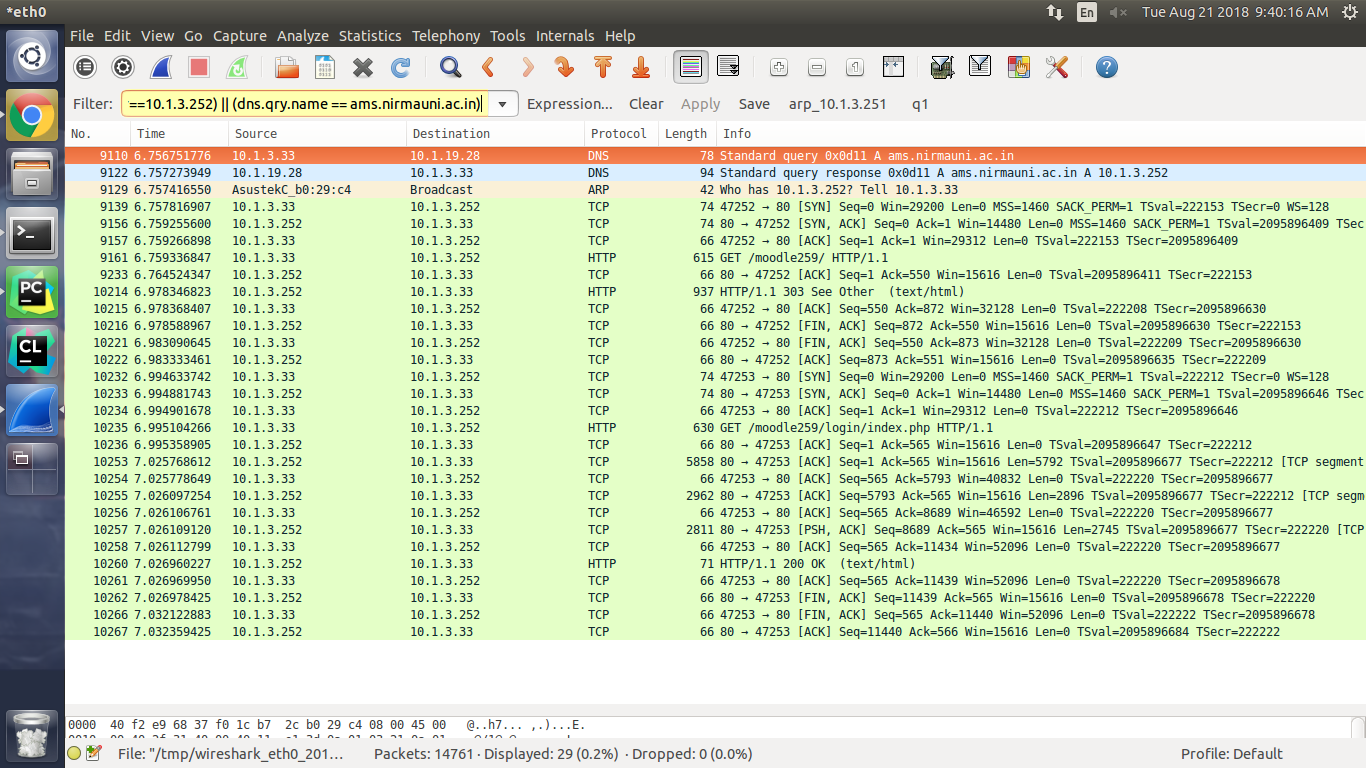
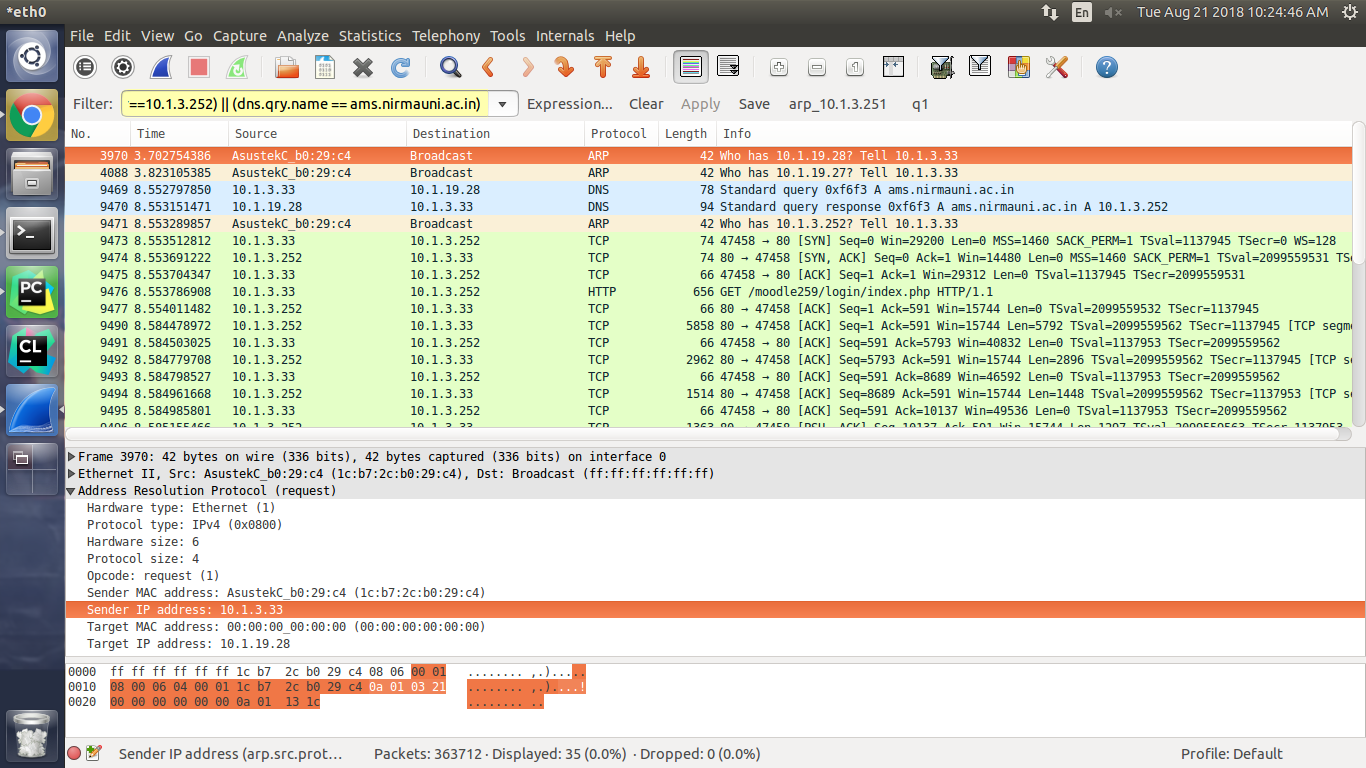
updated full scenario

diff --git a/wireshark_capturing/commands.md b/wireshark_capturing/commands.md
@@ -19,7 +19,7 @@ with query
 #### Explanation:
 
 
-    (arp && (eth.src==1c:b7:2c:b0:29:c4 && eth.dst==ff:ff:ff:ff:ff:ff) || (arp.src.proto_ipv4==10.1.3.252 && eth.src==1c:b7:2c:b0:29:c4 && eth.dst==ff:ff:ff:ff:ff:ff))
+    (arp && (eth.src==1c:b7:2c:b0:29:c4 && eth.dst==ff:ff:ff:ff:ff:ff) || (arp.src.proto_ipv4==10.1.19.28 && eth.src==1c:b7:2c:b0:29:c4 && eth.dst==ff:ff:ff:ff:ff:ff) || (arp.src.proto_ipv4==10.1.3.252 && eth.src==1c:b7:2c:b0:29:c4 && eth.dst==ff:ff:ff:ff:ff:ff))
 > arp is filter keyword in wireshark to display only arp packets 
 > Here the goal is to filter out packets which are resolving mac address of our destination
 > `eth.dst==ff:ff:ff:ff:ff:ff` will broadcast with all bits high from source machine having mac address `1c:b7:2c:b0:29:c4`
@@ -53,7 +53,7 @@ So final result of full query:
 
 filter Query:
 
-    (arp && (eth.src==1c:b7:2c:b0:29:c4 && eth.dst==ff:ff:ff:ff:ff:ff) ||(arp.src.proto_ipv4==10.1.3.252 && eth.src==1c:b7:2c:b0:29:c4 && eth.dst==ff:ff:ff:ff:ff:ff)) || ((http || tcp) && ip.addr==10.1.3.252) || (dns.qry.name == ams.nirmauni.ac.in)
+    (arp && (eth.src==1c:b7:2c:b0:29:c4 && eth.dst==ff:ff:ff:ff:ff:ff) || (arp.src.proto_ipv4==10.1.19.28 && eth.src==1c:b7:2c:b0:29:c4 && eth.dst==ff:ff:ff:ff:ff:ff) || (arp.src.proto_ipv4==10.1.3.252 && eth.src==1c:b7:2c:b0:29:c4 && eth.dst==ff:ff:ff:ff:ff:ff))  || (arp.src.proto_ipv4==10.1.3.251 && eth.dst==1c:b7:2c:b0:29:c4) || ((http || tcp) && ip.addr==10.1.3.252) || (dns.qry.name == ams.nirmauni.ac.in)
 
 Result:
 ![internal server capturing](https://raw.githubusercontent.com/gahan9/ACN_lab/master/wireshark_capturing/scenario_2/scenario2.full.png)
